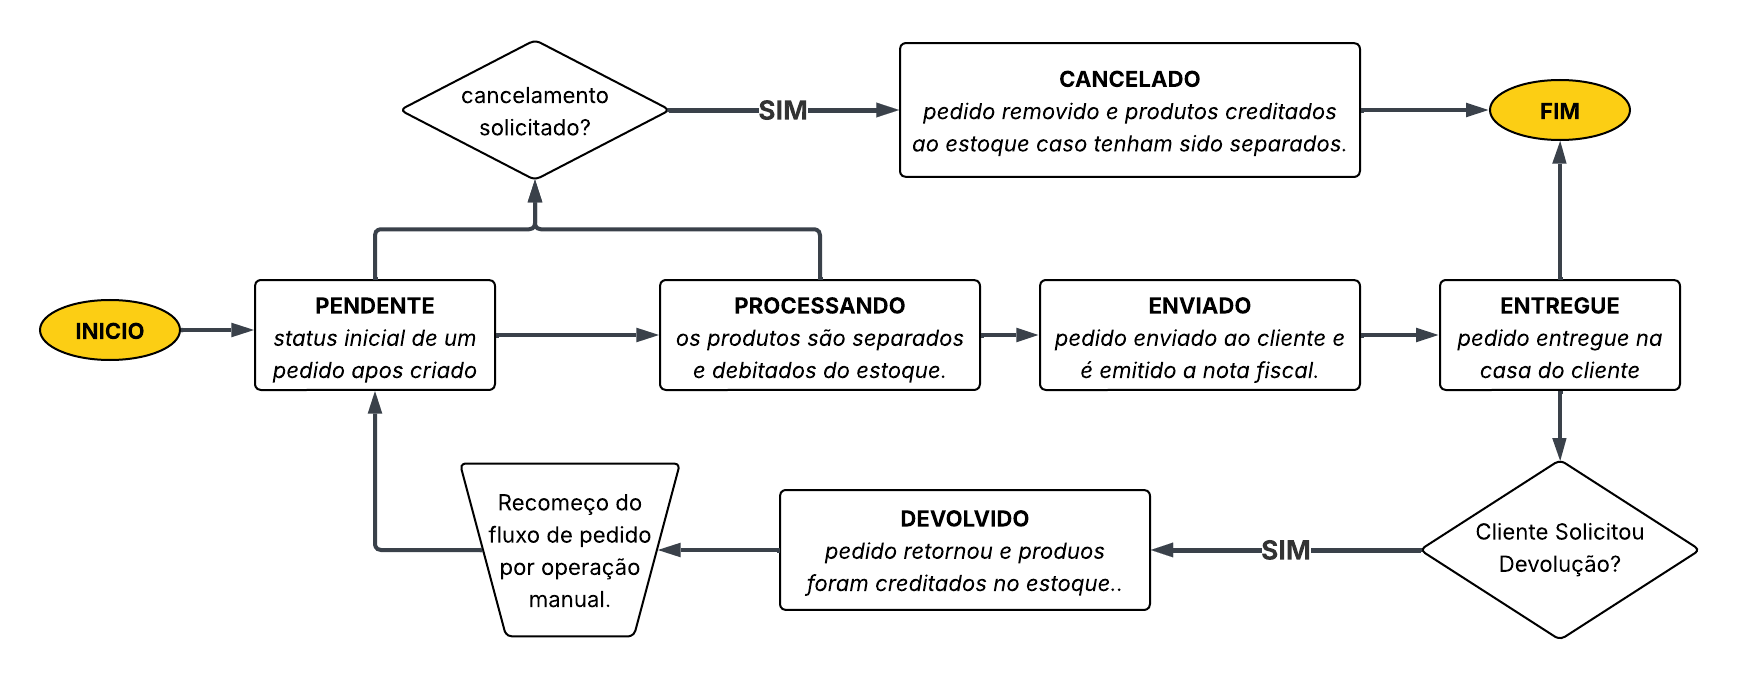
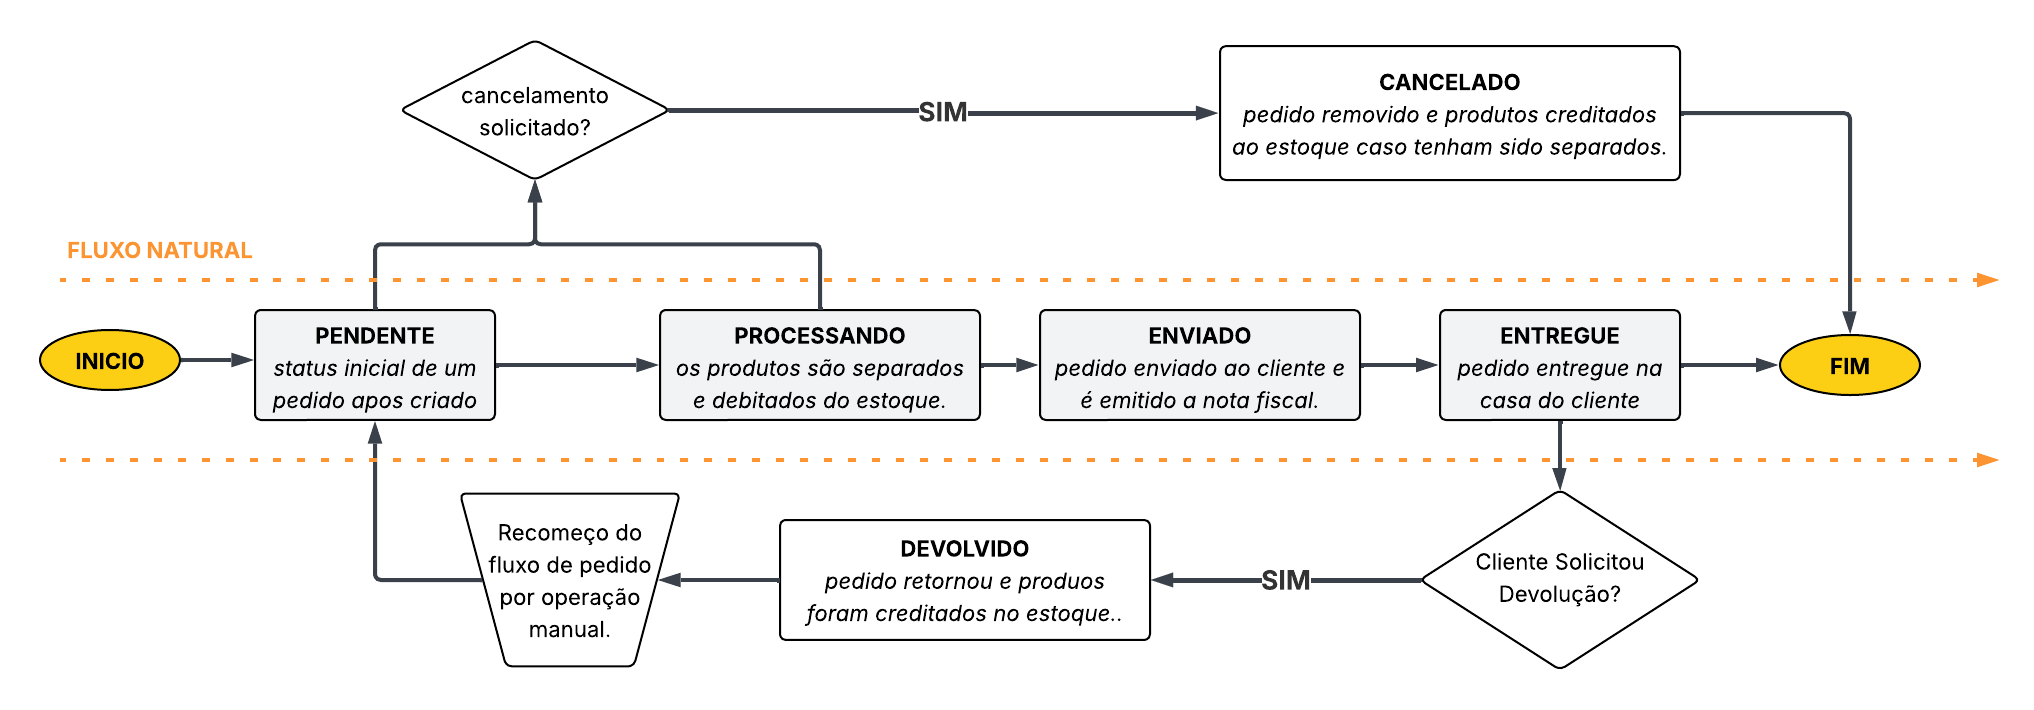
docs: tracking flow

diff --git a/README.md b/README.md
@@ -85,7 +85,7 @@ php -S localhost:8000
 
 Esta API permite atualizar o status de pedidos por meio de webhooks personalizados.
 
-### 🔗 Rota
+### 🔗 Definindo status
 
 ### [POST] /api/order/tracking
 
@@ -98,6 +98,16 @@ Esta API permite atualizar o status de pedidos por meio de webhooks personalizad
   "status": "PROCESSANDO"
 }
 ```
+
+### 📥 Exemplo de resposta
+
+```json
+{
+  "error": false,
+  "message": "status do pedido alterado de PENDENTE para PROCESSANDO"
+}
+```
+
 ### 🧾 Status disponíveis
 1. __PENDENTE__ : Pedido que acabou de ser criado ou aguarda manipulação.
 2. __PROCESSANDO__: pedido e manipulação/sepação e debito de estoque.
@@ -107,4 +117,48 @@ Esta API permite atualizar o status de pedidos por meio de webhooks personalizad
     - <b style="color: orange;">O pedido cancelado é removido do sistema.</b>
 6. __DEVOLVIDO__: o pedido retorna  e tem seus produtos creditados, aguardando uma possivel reenvio através de operação manual.
 
+
+### 🔗 Escalando pedido pelo Fluxo Natural
+
+### [POST] /api/order/tracking/flow
+
+
+### 📥 Exemplo de body
+
+```json
+{
+  "code": "20250728230700"
+}
+```
+### 📥 Exemplo de resposta
+
+```json
+{
+  "error": false,
+  "message": "status do pedido alterado de PROCESSANDO para ENVIADO"
+}
+```
+
+### 📥 Exemplo de body - enviando novamente
+
+```json
+{
+  "code": "20250728230700"
+}
+```
+### 📥 Exemplo de resposta
+
+```json
+{
+  "error": false,
+  "message": "status do pedido alterado de ENVIADO para ENTREGUE"
+}
+```
+
+Utilizando o __tracking flow__ é possivel percorrer todos os status do fluxo natural em ordem com o envio da mesma requisição, sem precisar definir o proximo status.
+
+veja como funciona.
+
 ![Fluxo de pedido - Ciclo de vida](public/images/order-workflow.png)
+
+atualmente a função __tracking flow__ encontra-se em desenvolvimento, prevista para lancamento na versão __0.2.0-rc__.
